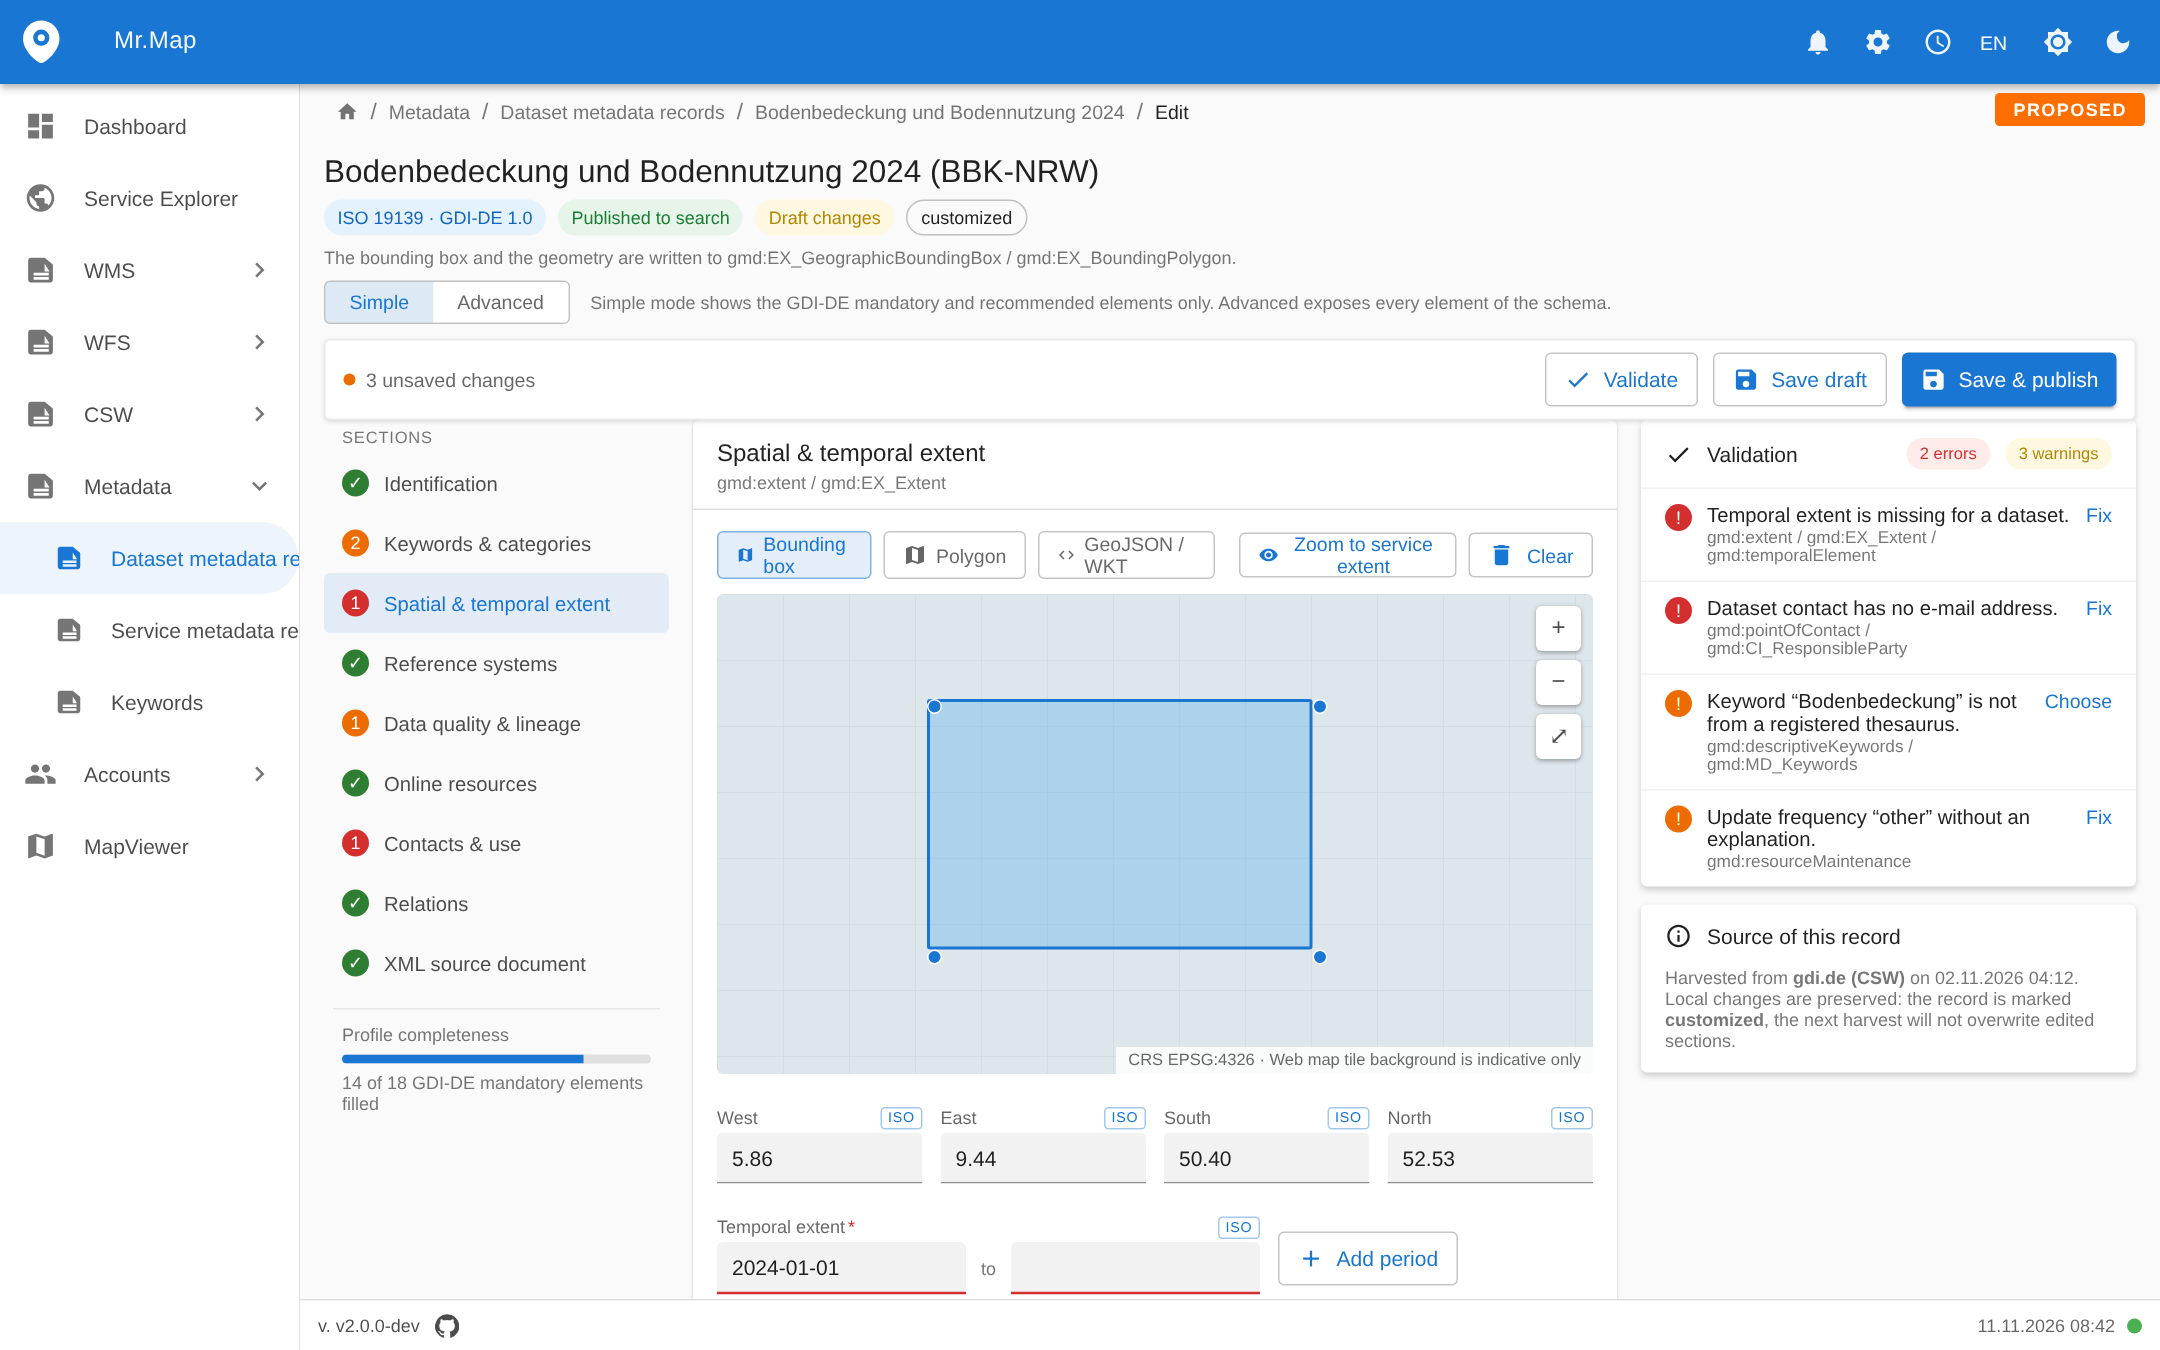
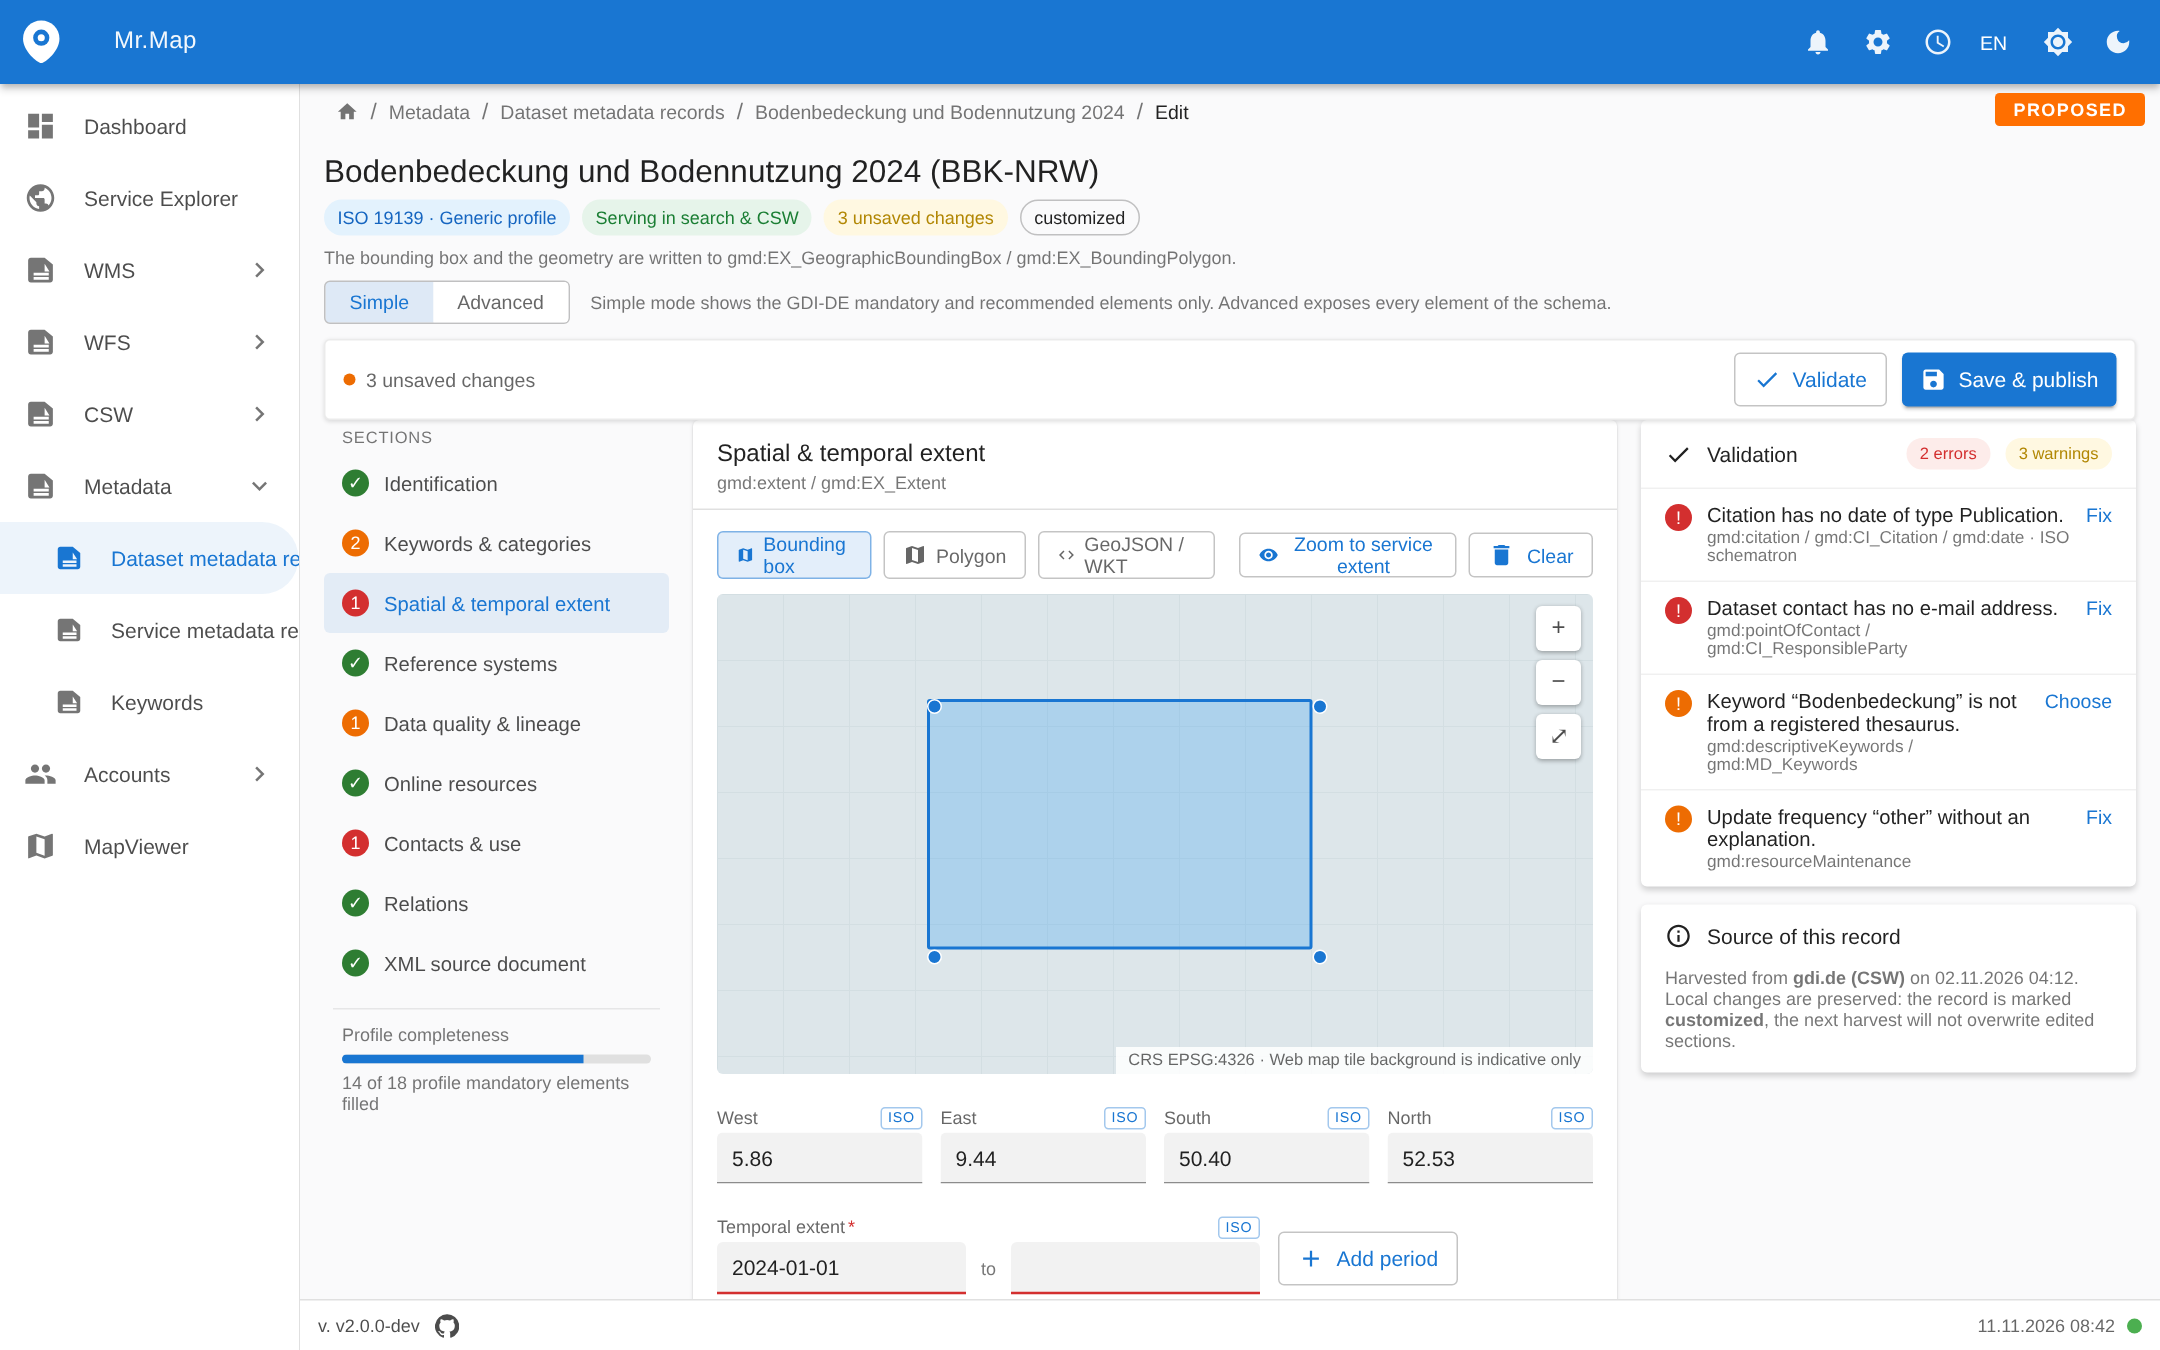
docs: re-render metadata editor mockups against the review decisions
Single Save & publish action (atomic publishing), Generic profile chip,
ISO-only findings, save-rejected dialog replaces the publish gate (file
renamed), blank-only create with disabled v2 template row, serving/validation
column in the list, synchronous batch wording, harvest conflict badged as v2
candidate.

diff --git a/docs/metadata-editor-design.md b/docs/metadata-editor-design.md
@@ -176,24 +176,24 @@ CURRENT — rendered from `master` source (no live MrMap demo was reachable):
 ![MrMap record detail today](images/metadata-editor/current-record-show.png)
 ![MrMap edit dialog today](images/metadata-editor/current-edit-dialog.png)
 
-PROPOSED (labels in the images say "PROPOSED"). Read them together with the review decisions:
-the draft/publish toolbar split (`proposed-01/03/12`) is superseded by atomic publishing; the
-template list in `proposed-09` activates with the v2 templates epic.
+PROPOSED (labels in the images say "PROPOSED"). The mockups were re-rendered after the review
+decisions: single **Save & publish** action everywhere, profile chip *Generic*, validation
+findings as save blockers, and `proposed-12` badged **v2 candidate**.
 
 | file | shows |
 | --- | --- |
-| `proposed-01-editor-simple.png` | editor shell: profile/state chips, Simple mode, section rail with per-section findings, sticky toolbar, validation rail |
+| `proposed-01-editor-simple.png` | editor shell: profile chips, Simple mode, section rail with per-section findings, sticky toolbar (Validate · Save & publish), findings rail |
 | `proposed-02-editor-advanced.png` | Advanced mode: ISO element groups with cardinality, keyword sets per thesaurus, add-element |
-| `proposed-03-publish-gate.png` | publish blocked by errors, per-error jump to field, save-as-draft-anyway |
+| `proposed-03-save-rejected.png` | save refused by 2 errors, per-error jump to field, served document untouched |
 | `proposed-04-xml-source.png` | XML source view, changed lines marked, write-back rule stated |
 | `proposed-05-keyword-picker.png` | thesaurus search grouped by registry, `gmx:Anchor` preview |
 | `proposed-06-contact-chooser.png` | pick existing Contact + `CI_RoleCode`, reuse count, create-new |
 | `proposed-07-extent-editor.png` | bbox/polygon/GeoJSON modes, bbox fields, temporal extent error inline |
 | `proposed-08-relations-editor.png` | relation table with ISO element it writes, origin, add/remove (round trip is #985) |
-| `proposed-09-create-record.png` | create wizard: profile + origin + file identifier, template list incl. *blank* |
-| `proposed-10-list.png` | metadata list with editorial state, selection, batch edit, create |
-| `proposed-11-batch-edit.png` | batch edit one element over a selection with per-record validity preview |
-| `proposed-12-harvest-conflict.png` | harvest-during-edit conflict resolved per section |
+| `proposed-09-create-record.png` | create wizard: profile + origin + file identifier, start blank; template row disabled (v2) |
+| `proposed-10-list.png` | metadata list with serving/validation column, selection, batch edit, create |
+| `proposed-11-batch-edit.png` | batch edit one element over a selection; per-record preview, synchronous per-record PATCH |
+| `proposed-12-harvest-conflict.png` | **v2 candidate**: harvest-during-edit conflict resolved per section |
 
 ## 7. Decisions (review of PR #1238)
 

diff --git a/docs/images/metadata-editor/README.md b/docs/images/metadata-editor/README.md
@@ -23,16 +23,16 @@ marked `PROPOSED` in the image. Each one is attached to the issue that specifies
 | --- | --- |
 | `proposed-01-editor-simple.png` | editor shell: profile and state chips, Simple mode, section rail, sticky toolbar, validation rail |
 | `proposed-02-editor-advanced.png` | Advanced mode: ISO element groups with cardinality, keyword sets per thesaurus, add optional element |
-| `proposed-03-publish-gate.png` | publishing blocked by validation errors, jump-to-field, save-as-draft escape |
+| `proposed-03-save-rejected.png` | save refused by validation errors, jump-to-field, served document untouched |
 | `proposed-04-xml-source.png` | XML source document view, changed lines marked, write-back rule stated in the UI |
 | `proposed-05-keyword-picker.png` | thesaurus search grouped per registry, free text flagged, `gmx:Anchor` preview |
 | `proposed-06-contact-chooser.png` | choose an existing Contact with a `CI_RoleCode`, reuse count, create new |
 | `proposed-07-extent-editor.png` | bounding box / polygon / GeoJSON on a map, extent fields, temporal extent error inline |
 | `proposed-08-relations-editor.png` | relation table: type, related record, ISO element written, origin, add/remove |
-| `proposed-09-create-record.png` | create wizard: profile and origin, template **or blank**, what-you-get panel |
-| `proposed-10-list.png` | metadata list with editorial state, selection, batch edit, create |
-| `proposed-11-batch-edit.png` | batch edit of one element over a selection with per-record validity preview |
-| `proposed-12-harvest-conflict.png` | record harvested while a draft is open, resolved per section |
+| `proposed-09-create-record.png` | create wizard: profile and origin, start **blank**; template row disabled (v2 epic) |
+| `proposed-10-list.png` | metadata list with serving/validation column, selection, batch edit, create |
+| `proposed-11-batch-edit.png` | batch edit of one element; per-record preview, synchronous per-record PATCH |
+| `proposed-12-harvest-conflict.png` | **v2 candidate**: harvest-during-edit conflict resolved per section |
 
 ## `gn-*.png` — GeoNetwork 4.4.12 reference screenshots
 
